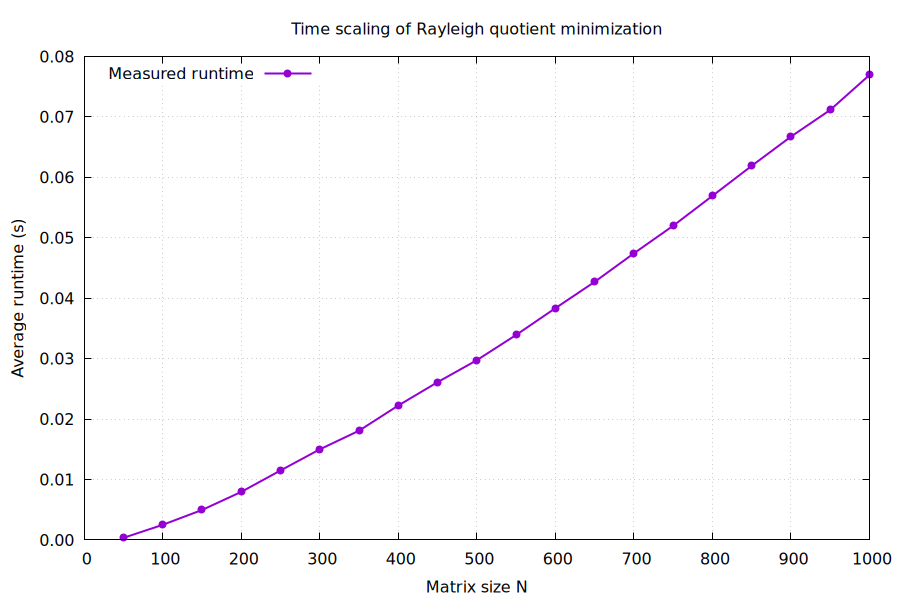
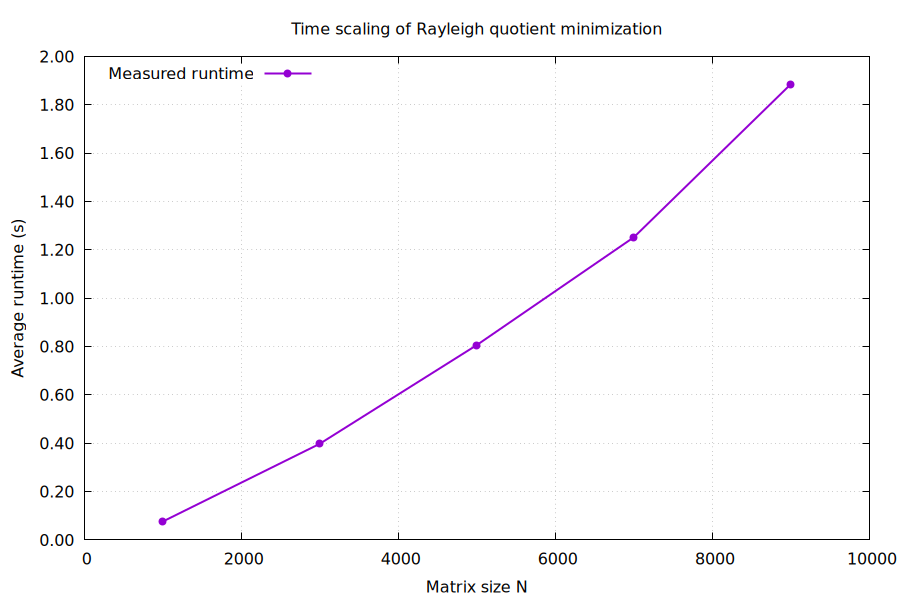
Examination Project

diff --git a/examination_project_30_rayleigh_quotient/main.cc b/examination_project_30_rayleigh_quotient/main.cc
@@ -197,10 +197,12 @@ int main()
 
     Timer timer;
 
-    const int samples = 10;
+    const double targetTime = 2.0;   // seconds
+    int largestPracticalN = 0;
 
-for (int N = 50; N <= 1000; N += 50)
+for (int N = 1000; ; N += 2000)
     {
+        int samples = (N < 500) ? 10 : 3;
         double totalTime = 0.0;
         double totalIterations = 0.0;
 
@@ -217,6 +219,16 @@ for (int N = 50; N <= 1000; N += 50)
         }
 
         double averageTime = totalTime / samples;
+
+        if (averageTime <= targetTime)
+        {
+            largestPracticalN = N;
+        }
+        else
+        {
+            break;
+        }
+
         double averageIterations = totalIterations / samples;
 
         timing
@@ -249,6 +261,18 @@ for (int N = 50; N <= 1000; N += 50)
 
     timing.close();
 
+    cout << "\nLargest practical matrix size ("
+        << targetTime
+        << " second limit): N ≈ "
+        << largestPracticalN
+        << endl;
+
+    out << "\nLargest practical matrix size ("
+        << targetTime
+        << " second limit): N ≈ "
+        << largestPracticalN
+        << endl;
+
     //--------------------------------------------------------
     // Gnuplot script
     //--------------------------------------------------------
@@ -265,7 +289,7 @@ for (int N = 50; N <= 1000; N += 50)
     gp << "set ylabel 'Average runtime (s)'\n";
     gp << "set title 'Time scaling of Rayleigh quotient minimization'\n";
 
-    gp << "set xtics 100\n";
+    gp << "set xtics 2000\n";
     gp << "set format y '%.2f'\n";
 
     gp << "plot 'timing.dat' using 1:2 "
